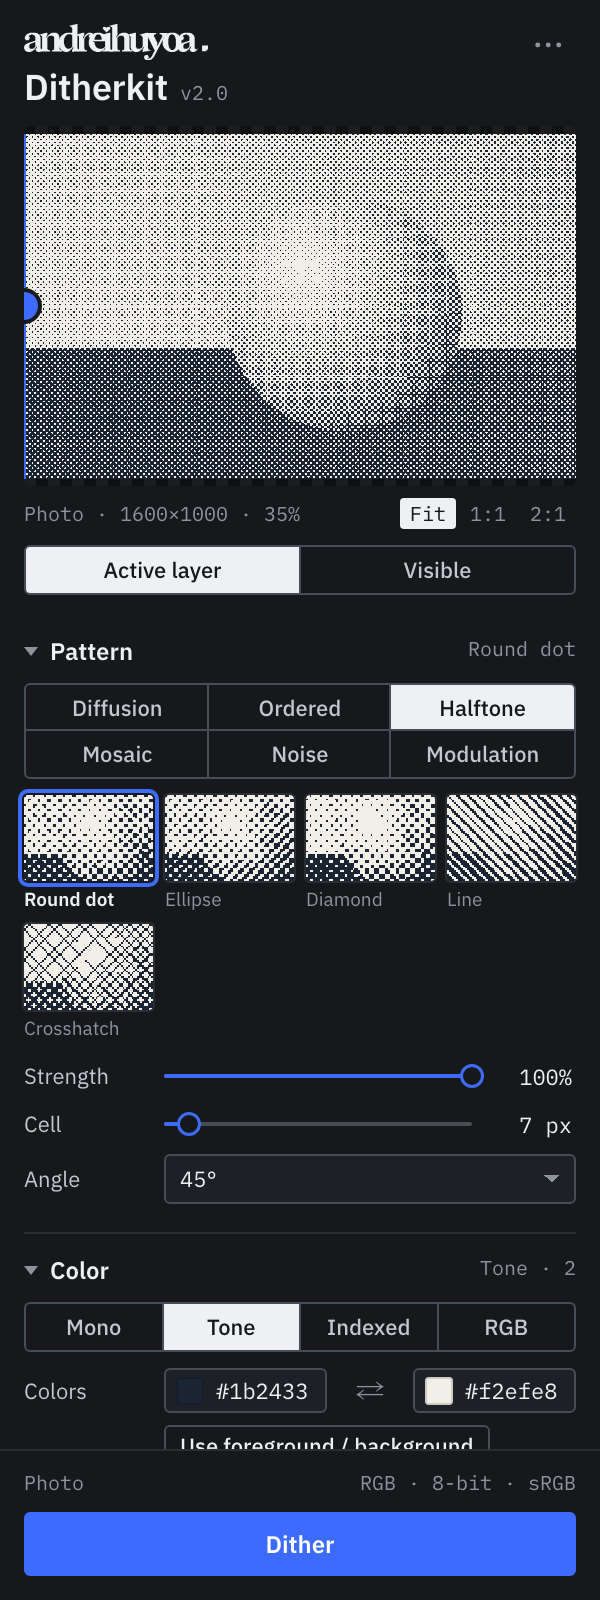
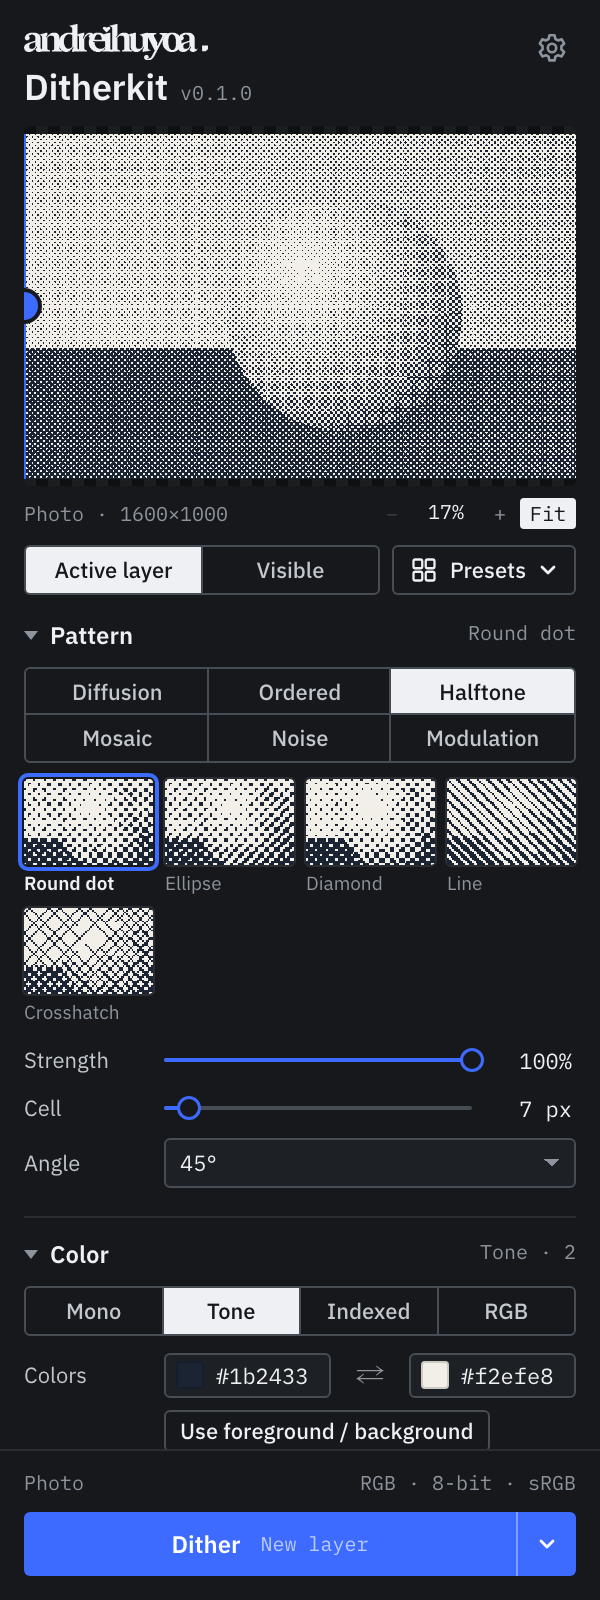
chore: start versioning at 0.1.0

diff --git a/ditherkit/CHANGELOG.md b/ditherkit/CHANGELOG.md
@@ -2,43 +2,18 @@
 
 Ditherkit follows [semantic versioning](https://semver.org). Before 1.0, minor versions add features and patch versions only fix bugs.
 
-## Unreleased
+## 0.1.0 (unreleased)
 
-### Added
+First version.
 
-- Preview zoom from Fit up to 800%. Scroll or pinch over the preview to zoom around the pointer, drag to pan, click a spot in the Fit view to see it at 100%, and double-click to fit again. The − and + buttons step through 25% to 800%.
-- A Presets button next to the source switch.
-- Delete or rename your own presets from Presets › Manage presets.
-
-### Changed
-
-- Dither and Save write a step-by-step log to `ditherkit-debug.log` in the plugin's data folder, to diagnose problems that only happen inside Photoshop.
-- Settings open from a gear icon in the header. Presets moved out of that menu.
-- Removed the "Live on canvas" banner. Cancel and Save already show that a dither is in progress.
-- The source switch is locked while a dither is in progress, instead of hidden.
-- The Output section is gone. Choose the output from the arrow on the Dither button (or the Save button during a dither), which also shows the output you picked. Batch moved into the same menu.
-- The live layer is named like the result it will become (for example "Dither · Atkinson") instead of "Ditherkit preview", and it's renamed when you change patterns.
-
-### Fixed
-
-- The live preview was always a new layer, whatever output you picked, so every output looked like "new layer" until you saved. The preview now matches the output: Layer mask previews the mask on the source itself, Replace source hides the original while you work, and Color layers, New document and PNG show a temporary layer named "Preview · …". Changing the output mid-dither rebuilds the preview.
-- Every output type could end up looking like a plain new layer. Save removes the live layer by stepping history back before writing the output, and if that step didn't happen, the live layer stayed on top of the real result. Save now checks that the live layer is gone, removes it directly if needed, and only then writes the output you chose.
-- Undoing the dither in Photoshop, deleting its layer or closing the document now ends the dither in the panel. Before, the panel kept showing Cancel and Save, and Save applied the dither again.
-- The 100% and 200% previews always showed the middle of the layer, which is often empty (a frame, a logo, text). They now show whatever part of the layer you zoom into.
-- Tall layers overflowed the preview in Fit view, so it showed only part of the layer at the wrong scale and didn't match the canvas. Fit now always shows the whole layer, and the zoom readout matches what's on screen.
-- The live layer could appear a few layers below the source, wherever Photoshop put new layers. It now always sits directly above the source layer (or at the top when the source is Visible).
-
-## 0.2.0 (2026-10-15)
-
-Rebuilt on Bolt UXP with a React webview UI and the Workbench design system. This release was first tagged 2.0.0 in the repo and has been renumbered.
-
-- 31 patterns in six families, with thumbnails rendered from the source image.
-- Live dithering on the canvas with Save and Cancel as one undo step.
-- Mono, tone, indexed and RGB color modes; palette import and export (.ase, .aco, .gpl).
+- 31 patterns in six families (diffusion, ordered, halftone, mosaic, noise, modulation), picked from thumbnails rendered from your own image.
+- Mono, tone, indexed and RGB color modes. Indexed palettes can be built in, pulled from the image or your own, with .ase, .aco and .gpl import, .gpl export, and swatches you can mute, merge or edit.
 - Levels with five handles over the histogram, plus blur, sharpen, denoise and invert.
 - Pixel size, print-resolution sizing, and crisp, soft or rounded edges.
-- Six output types, batch across selected layers, a document check with fixes, and presets.
-
-## 0.1.0 (2026-10-15)
-
-First prototype: a plain UXP panel with 20 patterns that dithered to a new layer.
+- A preview that zooms from Fit up to 800%, pans, and compares against the original with a split line.
+- Dither writes the result straight into the document as one undo step: as a new layer, a replacement for the source, color-separated fill layers, a layer mask, a new document or a PNG file. Pick the output from the arrow on the Dither button.
+- Batch dithering across selected layers.
+- A document check that converts CMYK, 16-bit or non-sRGB documents in one click.
+- Built-in presets and your own, with rename, delete, import and export.
+- Instrument theme in light and dark to match Photoshop, or Photoshop's own look.
+- A step-by-step log of each Dither in `ditherkit-debug.log`, in the plugin's data folder.

diff --git a/README.md b/README.md
@@ -10,7 +10,7 @@ This repo holds Ditherkit, a dithering and halftone panel for Photoshop, along w
 
 ## Ditherkit
 
-Photoshop's built-in Bitmap mode takes a dozen steps, flattens your file, and gives you a handful of patterns. Ditherkit does it from one panel and keeps your layers intact. You pick a pattern, adjust it against a live preview, and press Dither. The result appears on the canvas and updates as you keep adjusting. Save keeps it; Cancel removes it.
+Photoshop's built-in Bitmap mode takes a dozen steps, flattens your file, and gives you a handful of patterns. Ditherkit does it from one panel and keeps your layers intact. You pick a pattern, adjust it against a live preview in the panel, and press Dither. The result goes into your document as a single undo step.
 
 | | | | |
 | :-: | :-: | :-: | :-: |
@@ -30,10 +30,10 @@ Photoshop's built-in Bitmap mode takes a dozen steps, flattens your file, and gi
   - RGB with a set number of levels per channel.
 - **Tone controls:** a Levels control with five handles over the image's histogram, plus blur, sharpen, denoise and invert.
 - **Scale and edges:** chunky pixels, print-resolution sizing, and crisp, soft or rounded edges.
-- **Output:** a new layer, a replacement for the source (the original stays, hidden), one masked fill layer per color, a layer mask, a new document, or a PNG.
+- **Output:** a new layer, a replacement for the source (the original stays, hidden), one masked fill layer per color, a layer mask, a new document, or a PNG. Pick it from the arrow on the Dither button.
 - **Batch:** dither every selected layer with the same settings.
 - **Document check:** warns about CMYK, 16-bit or non-sRGB documents and converts them in one click.
-- **Presets** you can save, import and export.
+- **Presets** you can save, rename, delete, import and export.
 - **Two themes:** the panel's own Instrument look, light or dark to match Photoshop, or Photoshop's native look. Switch in the panel menu.
 
 ### Install
@@ -60,10 +60,7 @@ To install it permanently instead, run `pnpm --filter ditherkit ccx` and double-
 1. Select a layer, or switch the source to **Visible** to use everything you can see.
 2. Pick a pattern and color mode. The preview at the top updates as you go. Drag the line across it to compare with the original. Scroll over the preview to zoom, drag to move around, and click a spot to see it at 100%.
 3. Choose what the result should become with the arrow on the **Dither** button: a new layer, a replacement for the source, color layers, a layer mask, a new document or a PNG. The button shows your choice.
-4. Press **Dither** (or Enter). The result appears on the canvas and keeps updating while you adjust.
-5. Press **Save** (Enter) to keep it, or **Cancel** (Esc) to remove it.
-
-The whole edit is one step in Photoshop's history, so a single undo removes it.
+4. Press **Dither** (or Enter). The result is written into the document as one step, so a single undo removes it.
 
 See the [changelog](ditherkit/CHANGELOG.md) for what changed in each version.
 

diff --git a/ditherkit/README.md b/ditherkit/README.md
@@ -19,7 +19,7 @@ Run these from this folder, or from the repo root with `pnpm --filter ditherkit 
 
 | Path | What it does |
 | --- | --- |
-| `src/api/photoshop.ts` | Everything that touches Photoshop: reading pixels, previews, the live canvas session, every output type, batch, document fixes, palette and preset files. The panel can call every function exported here. |
+| `src/api/photoshop.ts` | Everything that touches Photoshop: reading pixels, previews, applying the dither as each output type, batch, document fixes, palette and preset files. The panel can call every function exported here. |
 | `src/shared/settings.ts` | Settings, presets and output types, shared by the plugin side and the panel |
 | `src/main.tsx` | Hosts the panel's webview and forwards Photoshop events to it |
 | `webview-ui/src/main-webview.tsx` | The panel UI, built from [Workbench](../packages/workbench) components |
@@ -30,4 +30,4 @@ The two sides talk through Bolt UXP's Comlink bridge, so everything passed betwe
 
 ## Things that only work inside Photoshop
 
-The harness covers the panel, but these need a real document to test: the live canvas layer, undoing through history on Cancel, color-layer and layer-mask output, PNG export, and the document fixes.
+The harness covers the panel, but these need a real document to test: each output type (especially color layers, layer masks and PNG export) and the document fixes. Each Dither writes what it did to `ditherkit-debug.log` in the plugin's data folder (on macOS, `~/Library/Application Support/Adobe/UXP/PluginsStorage/PHSP/<version>/Developer/com.andrei.ditherkit/PluginData`), which is the quickest way to see where something went wrong.
